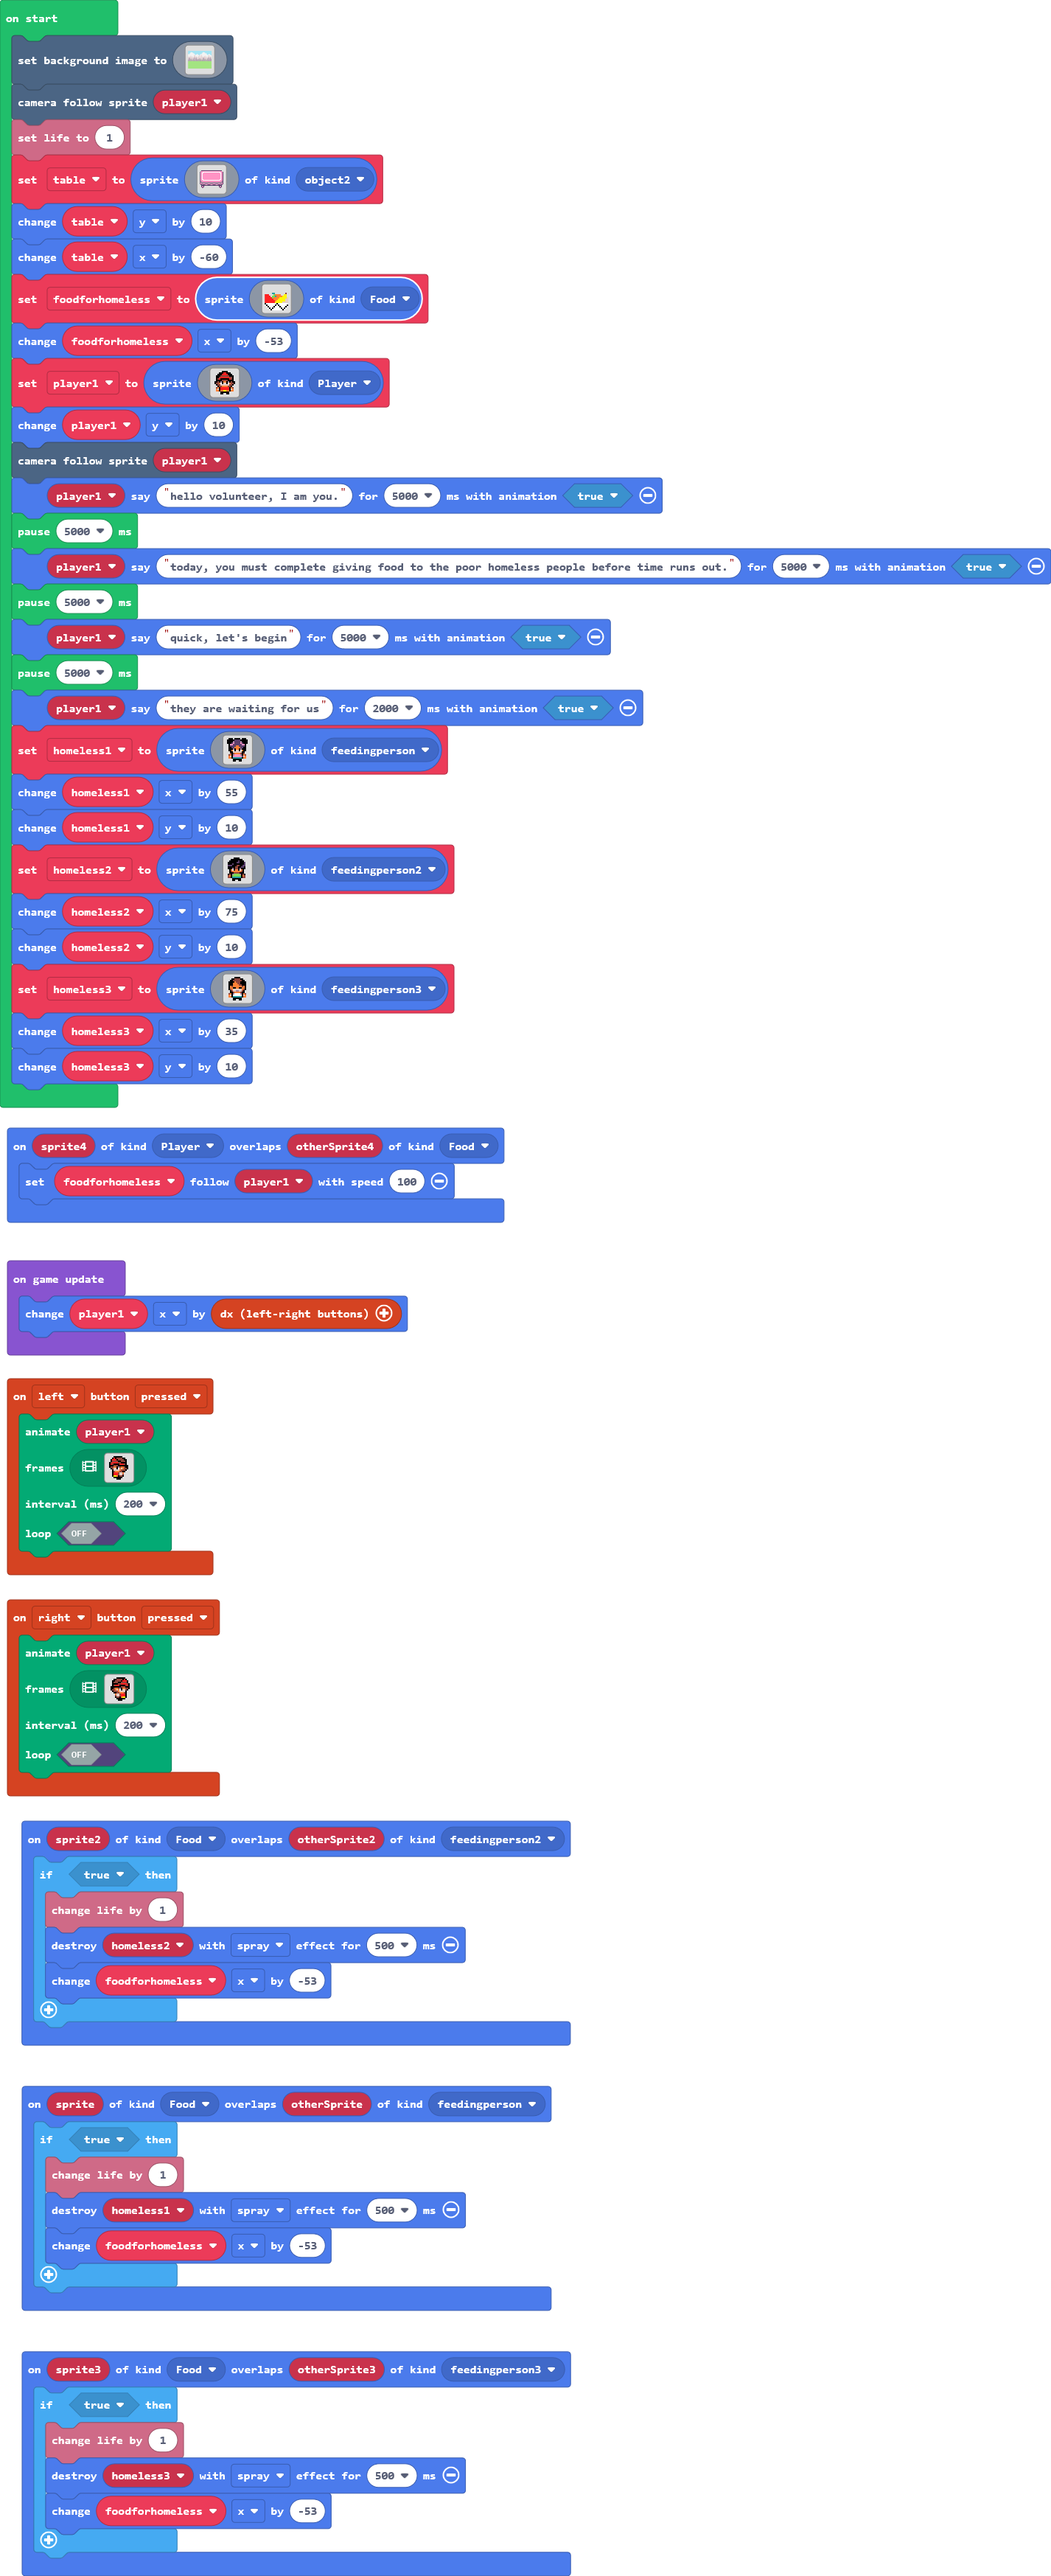
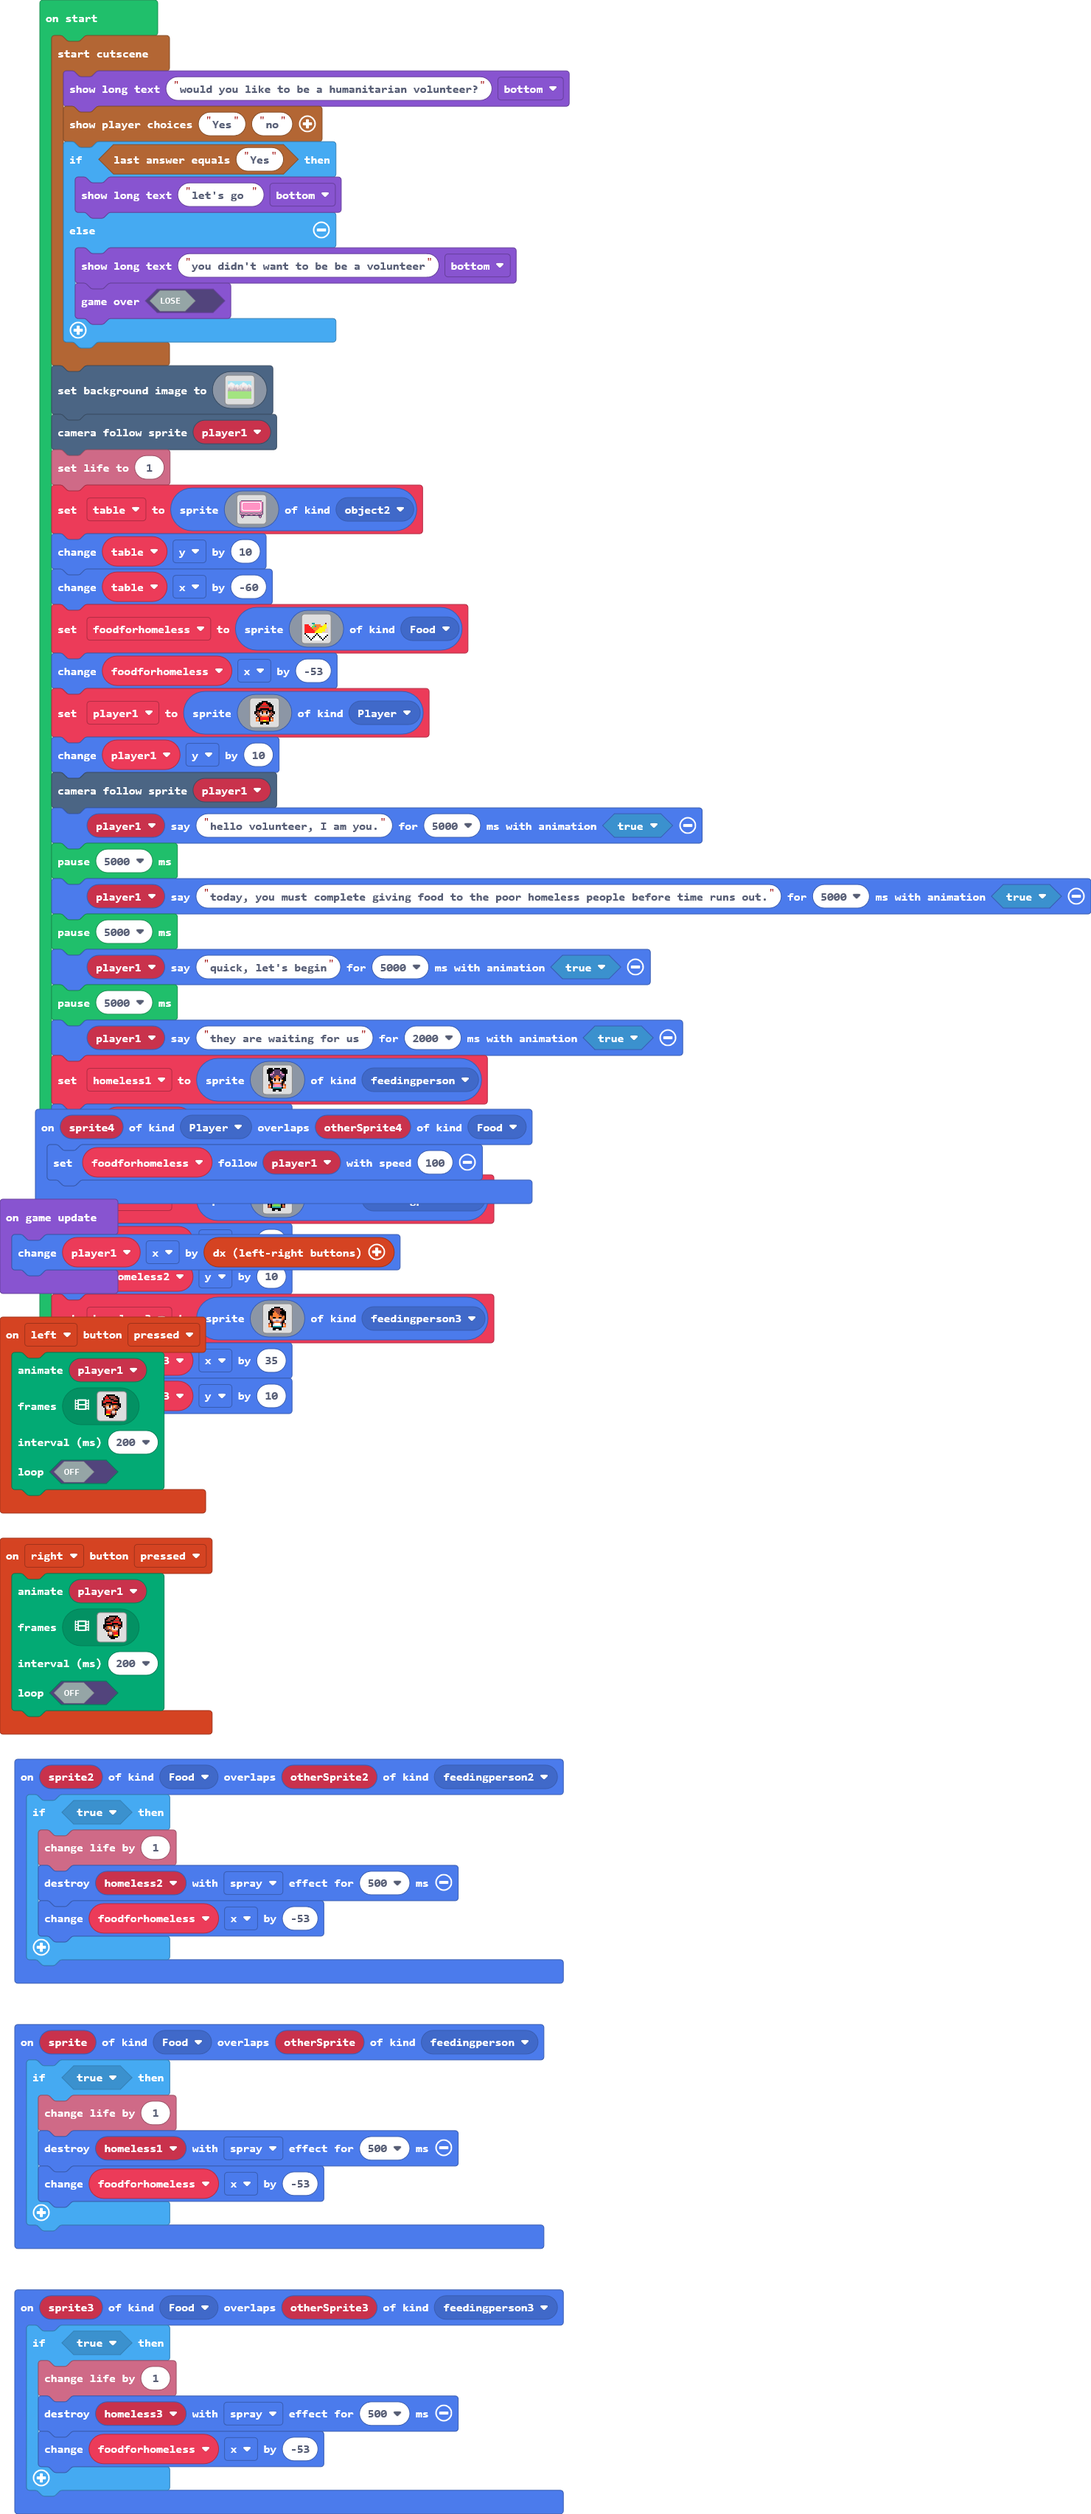
Update pxt.json, main.blocks, main.ts, main.py

Changed region(s): [[0.0, 0.0, 1.0, 1.0], [0.4937, 0.9944, 0.5554, 1.0]]

diff --git a/main.ts b/main.ts
@@ -49,6 +49,16 @@ let homeless2: Sprite = null
 let homeless1: Sprite = null
 let foodforhomeless: Sprite = null
 let player1: Sprite = null
+story.startCutscene(function () {
+    game.showLongText("would you like to be a humanitarian volunteer?", DialogLayout.Bottom)
+    story.showPlayerChoices("Yes", "no")
+    if (story.checkLastAnswer("Yes")) {
+        game.showLongText("let's go ", DialogLayout.Bottom)
+    } else {
+        game.showLongText("you didn't want to be be a volunteer", DialogLayout.Bottom)
+        game.gameOver(false)
+    }
+})
 scene.setBackgroundImage(assets.image`bg`)
 scene.cameraFollowSprite(player1)
 info.setLife(1)

diff --git a/main.py b/main.py
@@ -53,6 +53,18 @@ homeless2: Sprite = None
 homeless1: Sprite = None
 foodforhomeless: Sprite = None
 player1: Sprite = None
+
+def on_start_cutscene():
+    game.show_long_text("would you like to be a humanitarian volunteer?",
+        DialogLayout.BOTTOM)
+    story.show_player_choices("Yes", "no")
+    if story.check_last_answer("Yes"):
+        game.show_long_text("let's go ", DialogLayout.BOTTOM)
+    else:
+        game.show_long_text("you didn't want to be be a volunteer", DialogLayout.BOTTOM)
+        game.game_over(False)
+story.start_cutscene(on_start_cutscene)
+
 scene.set_background_image(assets.image("""
     bg
 """))
